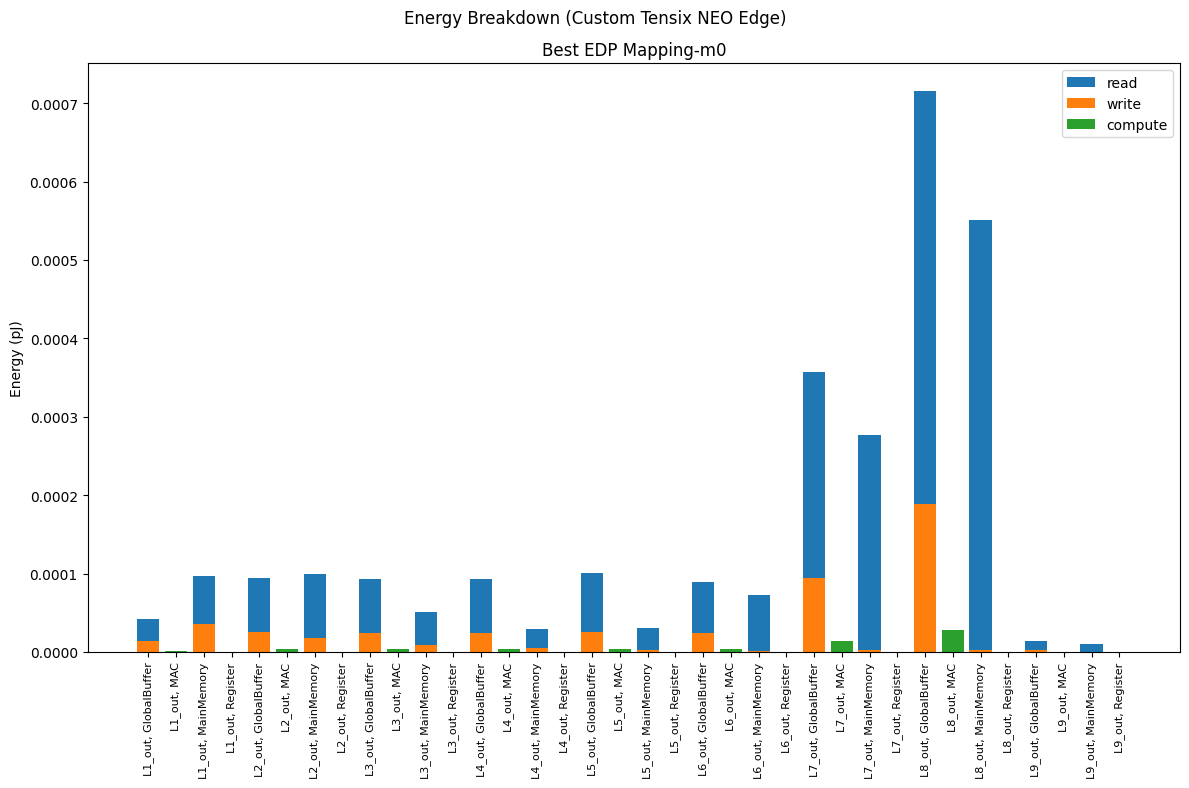
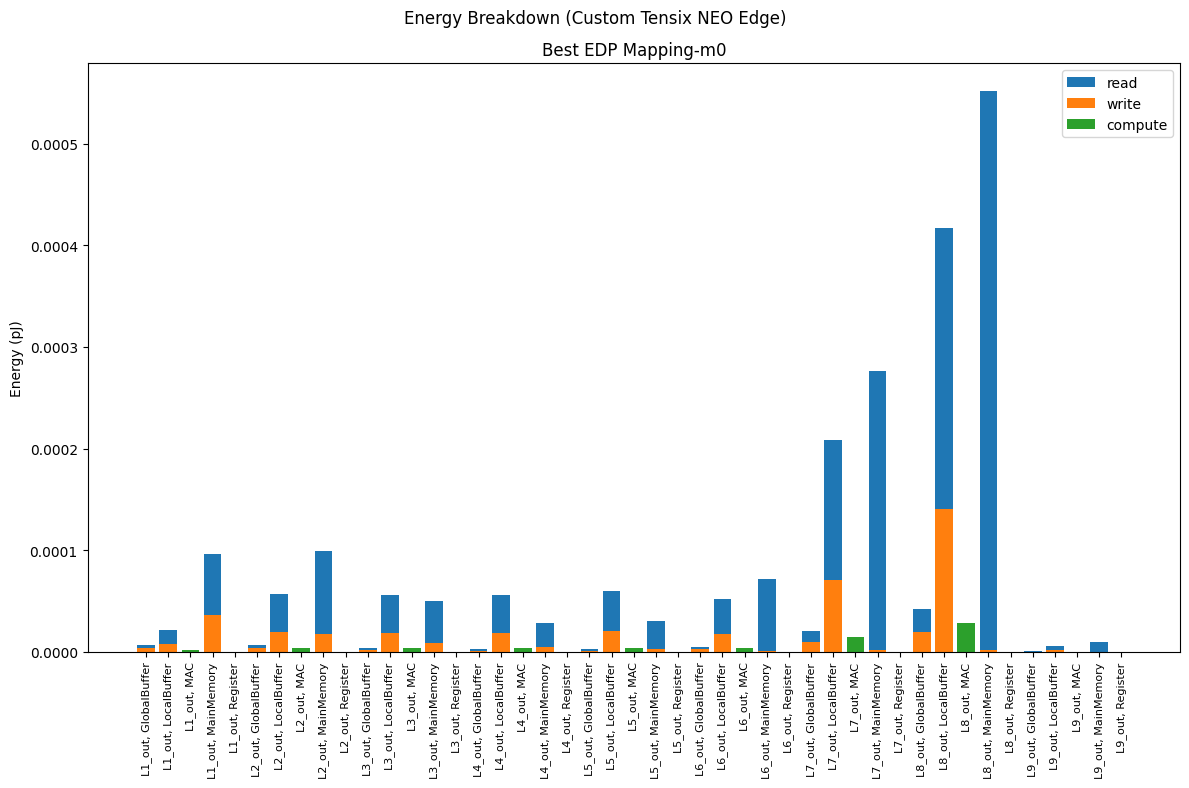
Modeled optimal architecture

diff --git a/workspace/mapper_custom_tinyyolo.py b/workspace/mapper_custom_tinyyolo.py
@@ -15,11 +15,18 @@ from accelforge.plotting.mappings import plot_energy_breakdown, plot_latency_com
 # ---------------------------------------------------------------
 # FILE PATHS
 # ---------------------------------------------------------------
-ARCH_FILE     = 'workspace/arches/custom_accelerator_v1.yaml'
+ARCH_FILE     = 'workspace/arches/custom_accelerator_sweep_v2.yaml'
 WORKLOAD_FILE = 'workspace/workloads/tinyyolo.yaml'
+
+FIXED_MAC_TPT = 2048
 
 JINJA_DATA = {
     'BATCH_SIZE': 1,
+    'FANOUT_X': 2,
+    'FANOUT_Y': 4,
+    'GLB_KB': 512,
+    'LB_KB': 8,
+    'MAC_TPT': FIXED_MAC_TPT,
 }
 
 
@@ -124,7 +131,7 @@ def main():
 
     # --- Plotting ---------------------------------------------
     print('\nGenerating plots...')
-    n_to_show = 5
+    n_to_show = 1
 
     # Relevant column names from accelforge
     energy_col = 'Total<SEP>energy'
